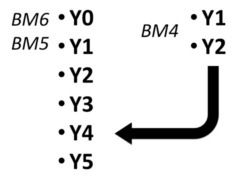
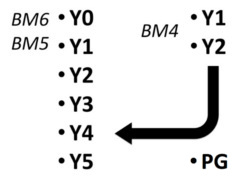
Added postgraduate to programme/year named set. bm4_y1, bm4_y2, and pg are special case programmes that do not require specific modules. added unspecified as a module to use in this case.

Changed region(s): [[0.7875, 0.8333, 0.9625, 0.9444]]

diff --git a/cfg/static/javascript/auto/medshare_select_module.js b/cfg/static/javascript/auto/medshare_select_module.js
@@ -46,6 +46,11 @@ document.observe( 'dom:loaded', function() {
 		$(mmsModuleId).disable();
 		$(mmsModuleId).insert(new Element('option').update('Select a programme/year to view modules'));
 	}
+	// check for non-specific modules
+	else if (medshare_programme_year_to_modules[selectedProgrammeYear].length == 0) {
+		$(mmsModuleId).disable();
+		$(mmsModuleId).insert(new Element('option').update('This programme has no specific modules'));
+	}
 
 	// remove the labels from the input elementss
 	$$(".medshare_module_select_area_programme_year input").each(function(input) {
@@ -56,17 +61,25 @@ document.observe( 'dom:loaded', function() {
 
 // callback for selecting a programme/year
 function mmsSelectProgrammeYear(value) {
-	// enable the module element
-	$(mmsModuleId).enable();
 
 	// remove existing options
 	$(mmsModuleId).select("option").each(function(option){ option.remove() });
 
-	// repopulate from cloned element
-	mmsClonedModuleSelect.select("option").each( function(option) {
-		if (medshare_programme_year_to_modules[value].indexOf(option.value) > -1) {
-			var clonedOption = Element.clone(option, true);
-			$(mmsModuleId).insert(clonedOption);
-		}
-	});
+	if (medshare_programme_year_to_modules[value].length == 0) {
+		$(mmsModuleId).disable();
+		$(mmsModuleId).insert(new Element('option').update('This programme has no specific modules'));
+	}
+	else {
+		// enable the module element
+		$(mmsModuleId).enable();
+
+		// repopulate from cloned element
+		mmsClonedModuleSelect.select("option").each( function(option) {
+			if (medshare_programme_year_to_modules[value].indexOf(option.value) > -1) {
+				var clonedOption = Element.clone(option, true);
+				$(mmsModuleId).insert(clonedOption);
+			}
+		});
+
+	}
 }

diff --git a/cfg/static/javascript/auto/medshare_modules.js b/cfg/static/javascript/auto/medshare_modules.js
@@ -49,17 +49,8 @@ var medshare_programme_year_to_modules = {
 		'elective',
 		'year_5_assessment'
 	],
-	'bm4_y1': [
-		'foundations_of_medicine_part_1',
-		'integration_of_knowledge_and_clinical_medicine_part_1',
-		'clinical_practice_experience_part_1',
-		'clinical_medicine_part_1'
-	],
-	'bm4_y2': [
-		'foundations_of_medicine_part_2',
-		'integration_of_knowledge_and_clinical_medicine_part_2',
-		'clinical_practice_experience_part_2',
-		'clinical_medicine_part_2'
-	]
+	'bm4_y1': [],
+	'bm4_y2': [],
+	'pg': [],
 };
 

diff --git a/cfg/static/style/auto/medshare_module_select.css b/cfg/static/style/auto/medshare_module_select.css
@@ -28,3 +28,4 @@
 .bm5_y5 { left:55px; top: 155px; }
 .bm4_y1 { left:189px; top: 10px; }
 .bm4_y2 { left:189px; top: 39px; }
+.pg { left:188px; top: 155px; }
